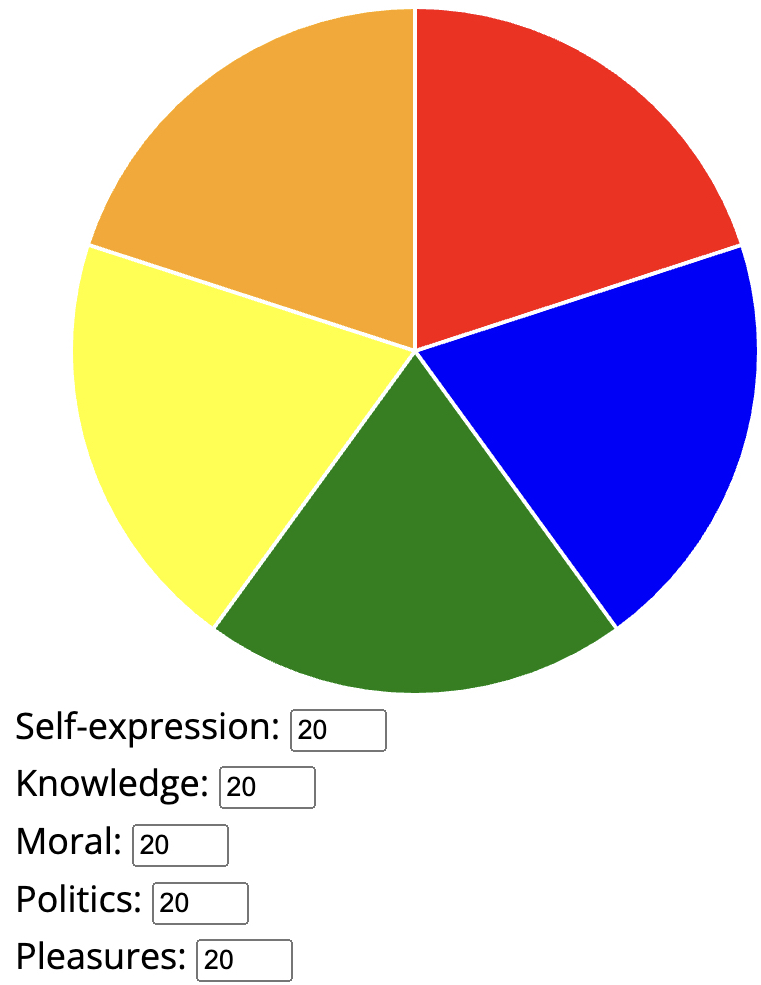
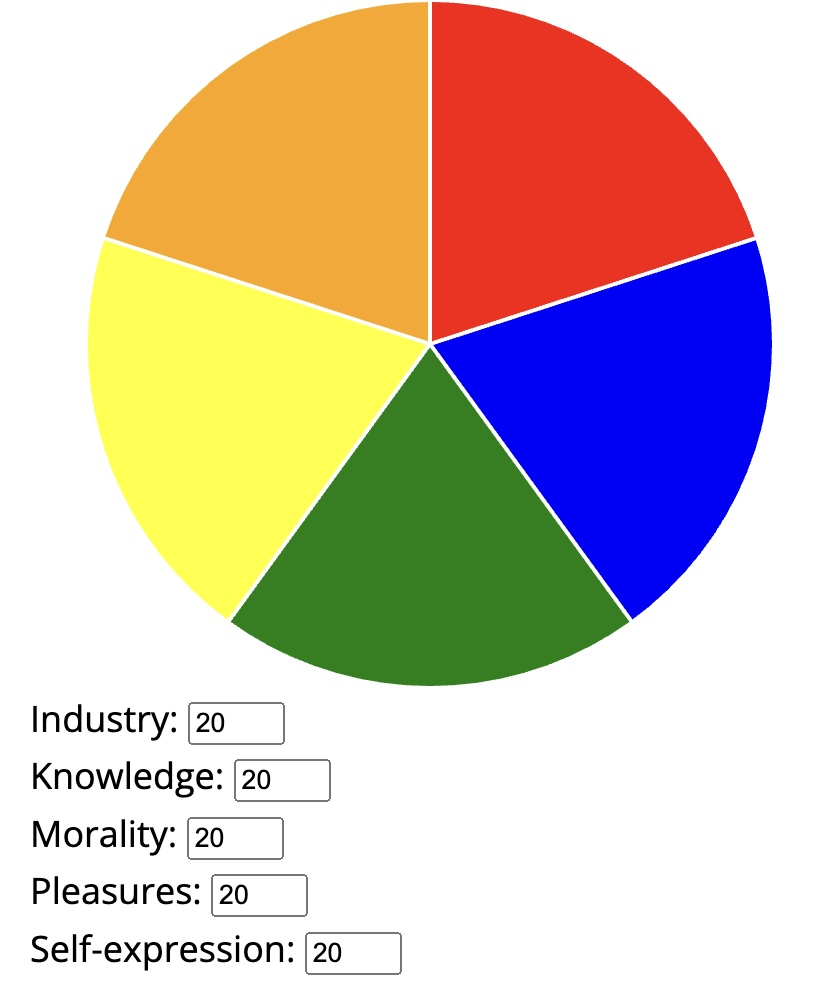
adding industry

diff --git a/experiment.js b/experiment.js
@@ -187,10 +187,10 @@ const instructionsSelf = {
      <p style="text-align: left;">
      These pursuits include:
      <ul style="text-align: left;">
-     <li><b>Knowledge</b> (pursuing truth, science, technology)</li>
+       <li><b>Industry</b> (creating and managing resources, providing goods, services)</li>
+       <li><b>Knowledge</b> (pursuing truth, science, technology)</li>
        <li><b>Morality</b> (pursuing justice, caring for others, engaging in religious or spiritual practices)</li>
        <li><b>Pleasures</b> (pursuing enjoyment, play, leisure in life)</li>
-       <li><b>Politics</b> (pursuing social order, managing resources, organizing society)</li>
        <li><b>Self-expression</b> (culture, making art, music, perfecting a sport)</li>
      </ul>
      </p>`,
@@ -211,7 +211,7 @@ const instructionsSelf = {
     </p>`,
 
     `<p style="text-align: left;">
-    You will start with a pie chart where all of the values are evenly broken up. The values of the pie chart must equal exactly 100. 
+    You will start with a pie chart where none of the pursuits have been assigned value. Because of this, the pie chart will not be visible until you assign values. The values of the pie chart must equal exactly 100. 
     </p>`,
 
 
@@ -253,10 +253,10 @@ const instructionsOther = {
      <p style="text-align: left;">
      These pursuits include:
      <ul style="text-align: left;">
+     <li><b>Industry</b> (creating and managing resources, providing goods, services)</li>
      <li><b>Knowledge</b> (pursuing truth, science, technology)</li>
      <li><b>Morality</b> (pursuing justice, caring for others, engaging in religious or spiritual practices)</li>
      <li><b>Pleasures</b> (pursuing enjoyment, play, leisure in life)</li>
-     <li><b>Politics</b> (pursuing social order, managing resources, organizing society)</li>
      <li><b>Self-expression</b> (culture, making art, music, perfecting a sport)</li>
      </ul>
      </p>`,
@@ -280,7 +280,7 @@ const instructionsOther = {
     </p>`,
 
     `<p style="text-align: left;">
-    You will start with a pie chart where all of the values are evenly broken up. The values of the pie chart must equal exactly 100. 
+    You will start with a pie chart where none of the pursuits have been assigned value. Because of this, the pie chart will not be visible until you assign values. The values of the pie chart must equal exactly 100. 
     </p>`,
 
 
@@ -294,11 +294,11 @@ const instructionsOther = {
 
 // TASK 
 let proportions = {
-  cat1: 20,
-  cat2: 20,
-  cat3: 20,
-  cat4: 20,
-  cat5: 20
+  cat1: 0,
+  cat2: 0,
+  cat3: 0,
+  cat4: 0,
+  cat5: 0
 };
 
 const pieChartTrial = {
@@ -307,10 +307,10 @@ const pieChartTrial = {
   <div style="text-align: center; margin-bottom: 5px;">
       <b>Adjust the amount of each of the following pursuits:</b>
       <ul style="text-align: left; font-size: 14px; margin-top: 5px;">
+      <li><b>Industry</b> (creating and managing resources, providing goods, services)</li>
       <li><b>Knowledge</b> (pursuing truth, science, technology)</li>
       <li><b>Morality</b> (pursuing justice, caring for others, engaging in religious or spiritual practices)</li>
       <li><b>Pleasures</b> (pursuing enjoyment, play, leisure in life)</li>
-      <li><b>Politics</b> (pursuing social order, managing resources, organizing society)</li>
       <li><b>Self-expression</b> (culture, making art, music, perfecting a sport)</li>
       </ul> 
     </p>
@@ -320,16 +320,16 @@ const pieChartTrial = {
     <canvas id="pieChart"></canvas>
   </div>
   <div id="inputContainer" style="width: 400px; margin: 0 auto; text-align: left;">
-    <label for="cat1">Knowledge:</label>
-    <input type="number" id="cat1" value="20" min="0" max="100"><br>
-    <label for="cat2">Morality:</label>
-    <input type="number" id="cat2" value="20" min="0" max="100"><br>
-    <label for="cat3">Pleasures:</label>
-    <input type="number" id="cat3" value="20" min="0" max="100"><br>
-    <label for="cat4">Politics:</label>
-    <input type="number" id="cat4" value="20" min="0" max="100"><br>
+    <label for="cat1">Industry:</label>
+    <input type="number" id="cat1" value="0" min="0" max="100"><br>
+    <label for="cat2">Knowledge:</label>
+    <input type="number" id="cat2" value="0" min="0" max="100"><br>
+    <label for="cat3">Morality:</label>
+    <input type="number" id="cat3" value="0" min="0" max="100"><br>
+    <label for="cat4">Pleasures:</label>
+    <input type="number" id="cat4" value="0" min="0" max="100"><br>
     <label for="cat5">Self-expression:</label>
-    <input type="number" id="cat5" value="20" min="0" max="100"><br>
+    <input type="number" id="cat5" value="0" min="0" max="100"><br>
   </div>
   <p></p>
   <p id="error-message" style="color: red;"></p>
@@ -342,9 +342,9 @@ const pieChartTrial = {
     var pieChart = new Chart(ctx, {
       type: 'pie',
       data: {
-        labels: ['Knowledge', 'Morality', 'Pleasures', 'Politics', 'Self-expression'],
+        labels: ['Industry','Knowledge', 'Morality', 'Pleasures', 'Self-expression'],
         datasets: [{
-          data: [20, 20, 20, 20, 20],
+          data: [0, 0, 0, 0, 0],
           backgroundColor: ['red', 'blue', 'green', 'yellow', 'orange']
         }]
       },
@@ -429,14 +429,14 @@ var whichone = {
     {
       prompt: "If you had to choose, which of the pursuits do you think is most important to being human?", 
       name: 'human', 
-      options: ['Knowledge',  'Morality', 'Pleasures', 'Politics', 'Self-expression' ], 
+      options: ['Industry','Knowledge',  'Morality', 'Pleasures', 'Self-expression' ], 
       required: true,
       horizontal: true
     }, 
     {
       prompt: "In your life now, which of the pursuits would you say YOU most pursue in your life?", 
       name: 'youvalue', 
-      options: ['Knowledge',  'Morality', 'Pleasures', 'Politics', 'Self-expression' ], 
+      options: ['Industry','Knowledge',  'Morality', 'Pleasures', 'Self-expression' ], 
       required: true,
       horizontal: true,
     },
@@ -444,7 +444,7 @@ var whichone = {
     {
       prompt: "Which of the pursuits should YOU most pursue in your life?", 
       name: 'shouldvalue', 
-      options: ['Knowledge',  'Morality', 'Pleasures', 'Politics', 'Self-expression' ], 
+      options: ['Industry','Knowledge',  'Morality', 'Pleasures', 'Self-expression' ], 
       required: true,
       horizontal: true
     },
@@ -452,7 +452,7 @@ var whichone = {
     {
       prompt: "Which of the pursuits should OTHERS spend most time pursuing in their lives?", 
       name: 'othersshould', 
-      options: ['Self-expression', 'Politics', 'Pleasures', 'Morality', 'Knowledge'], 
+      options: ['Self-expression', 'Pleasures', 'Morality', 'Knowledge', 'Industry'], 
       required: true,
       horizontal: true
     }
@@ -478,10 +478,10 @@ timeline.push(whichone);
 var ourmfq = {
   type: jsPsychSurveyLikert,
   questions: [
+    {prompt: "Industry", name: 'Industry1', labels: likert_scale},
     {prompt: "Knowledge", name: 'Knowledge1', labels: likert_scale},
     {prompt: "Morality", name: 'Morality1', labels: likert_scale},
     {prompt: "Pleasures", name: 'Pleasures1', labels: likert_scale},
-    {prompt: "Politics", name: 'Politics1', labels: likert_scale},
     {prompt: "Self-expression", name: 'Self-expression1', labels: likert_scale},
   ],
   preamble:"In this section, please rate each item on how important it would be to you when trying to decide if a pursuit was valuable or not.",
@@ -491,10 +491,10 @@ var ourmfq = {
     let mfqData = data.response;
 
     mfqData = {
+      industry_importance: mfqData['Industry1'],
       knowledge_importance: mfqData['Knowledge1'],
       morality_importance: mfqData['Morality1'],
       pleasures_importance: mfqData['Pleasures1'],
-      politics_importance: mfqData['Politics1'],
       self_expression_importance: mfqData['Self-expression1']
     };
 
@@ -509,10 +509,10 @@ timeline.push(ourmfq);
 var fallapart = {
   type: jsPsychSurveyLikert,
   questions: [
+    {prompt: "If too many people pursue <b>industry</b> society will fall apart", name: 'Industry2', labels: disagree_scale},
     {prompt: "If too many people pursue <b>knowledge</b> society will fall apart", name: 'Knowledge2', labels: disagree_scale},
     {prompt: "If too many people pursue <b>morality</b> society will fall apart", name: 'Morality2', labels: disagree_scale},
     {prompt: "If too many people pursue <b>pleasures</b> society will fall apart", name: 'Pleasures2', labels: disagree_scale},
-    {prompt: "If too many people pursue <b>politics</b> society will fall apart", name: 'Politics2', labels: disagree_scale},
     {prompt: "If too many people pursue <b>self-expression</b> society will fall apart", name: 'Self-expression2', labels: disagree_scale},
   ],
   preamble:"For each of the following, please rate how much you agree or disagree with the statement",
@@ -522,10 +522,10 @@ var fallapart = {
     let fallapartData = data.response;
 
     fallapartData = {
+      industry_fallapart: fallapartData['Industry2'],
       knowledge_fallapart: fallapartData['Knowledge2'],
       morality_fallapart: fallapartData['Morality2'],
       pleasures_fallapart: fallapartData['Pleasures2'],
-      politics_fallapart: fallapartData['Politics2'],
       self_expression_fallapart: fallapartData['Self-expression2']
     };
 
